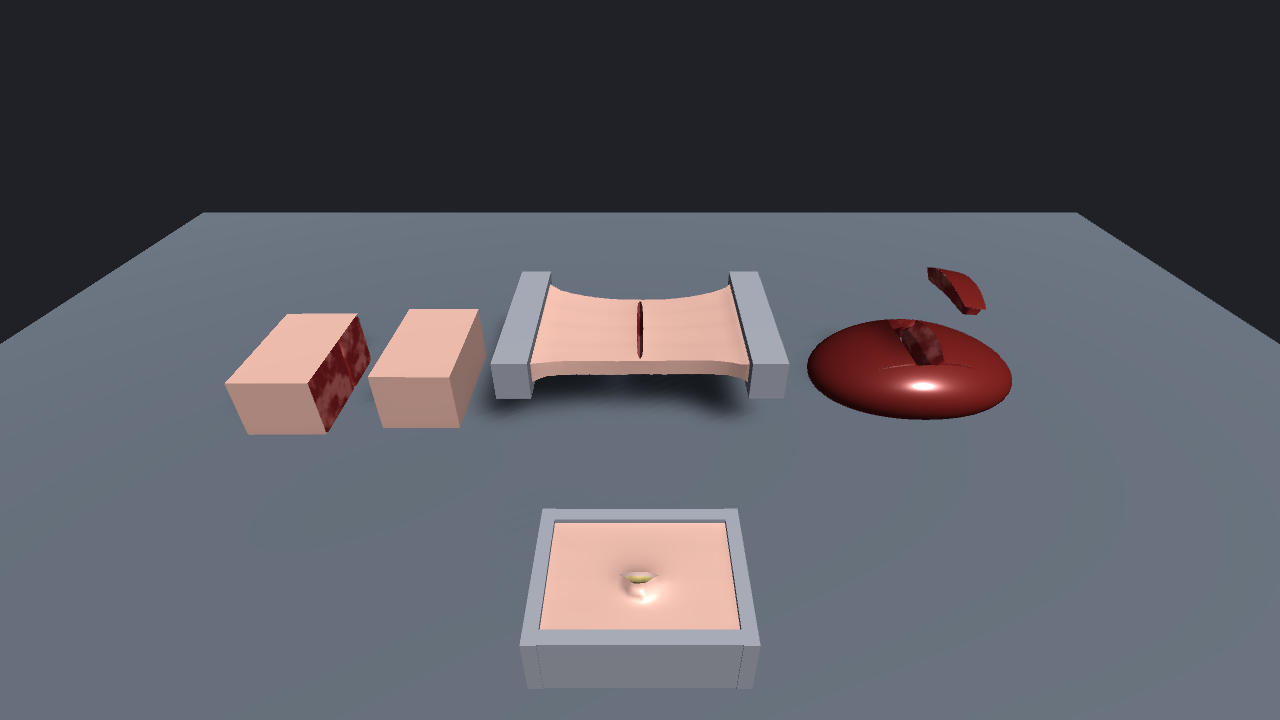
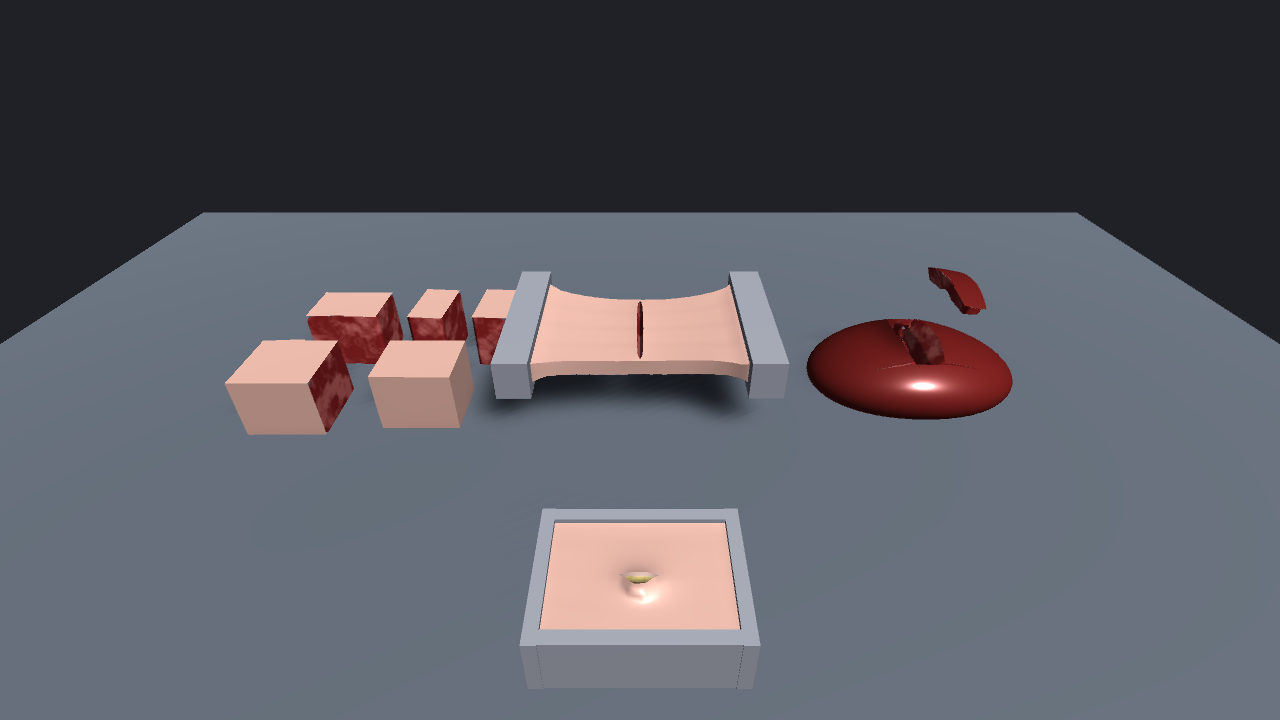
docs: 重新截取 S1–S6、S8–S11，更新 ROADMAP 当前结果（ENG-4 部分完成）
ENG-4：docs/images 中的截图早于 BUG-1/4/6/7/8 的修复，M1、M2 的人工验收
以截图为准（ROADMAP 决策 5），需要先按当前代码重新生成。

- 按 7389533 在 batchmode 中运行 SurgeryDemoCapture、InteractionDemoCapture，
  更新 docs/images 中有变化的截图，新增 S3b_block_pieces_apart
- README：第二个截图表加入 S3b
- ROADMAP：注明截图与“当前结果”列的生成提交；S3 补充拉开后各块分离、
  切面完整；S8 补充两个物体之后都进入休眠
- TODO：ENG-4 改为部分完成（M1、M2 的人工验收未完成）；变更记录补上 0012562

验证：日志中各阶段的块数与 ROADMAP“当前结果”一致（S1 2 块，S2 1 块，
S3 5 块，S5 楔形块 82 个节点被提起，S6 1 块；S10 环下表面 42.8 → 38.4 →
42.8 mm，S11 塑性块中部 30.4 → 25.2 mm）。与此前的截图相比，S1–S6 除背景中
组织块的位置外差别在几千像素以内，S8 中肝叶位置略有变化，S10、S11 逐像素
相同；S1b、S10a、S11b、S11c 文件未变。未运行测试与基准测试（运行时代码未改动）。

Changed region(s): [[0.1875, 0.3972, 0.4062, 0.55], [0.6875, 0.4278, 0.7188, 0.4583]]

diff --git a/docs/TODO.md b/docs/TODO.md
@@ -242,7 +242,7 @@ public sealed class ApxHapticBridge
 | ENG-1 | 以 UPM 包发布 | 插件在 `Assets/AdaptorPhysX`，没有 `package.json`、版本号与 CHANGELOG；示例在 `Assets/Samples`，不是包内的 `Samples~` | 未开始 | 另一个空工程用 git URL（`?path=`）引用包后编译通过，示例可从 Package Manager 导入，包内 EditMode 测试可运行 |
 | ENG-2 | 自动运行测试 | EditMode 与 PlayMode 测试只在本机 batchmode 或编辑器中手动运行（README）；没有 CI | 未开始 | 推送后自动运行 EditMode 与 PlayMode 测试并保存结果文件；运行环境的配置（含 Unity 许可证）写入 README |
 | ENG-3 | 基准测试基线 | 判断改动是否改变仿真结果时比较 16 组 4 个阶段的 `positionsHash`；结果文件在 `Benchmarks/Results/`（不提交），对照值只存在于本机上一次运行的文件中；哈希只在同一机器、同一构建下可比 | 未开始 | 基线文件（例如 `Benchmarks/baseline.json`：每组 4 个阶段的 `positionsHash`、块数、断棱数，以及机器与构建信息）入库；基准测试运行后与基线比较，列出不一致的组 |
-| ENG-4 | 标准场景截图与里程碑验收 | `docs/images` 中 S1–S6 的截图来自 `1ef1a09`（2026-10-26），之后 BUG-1、BUG-4、BUG-6、BUG-7 修改了切割、皮肤渲染与求解器初始状态；S8–S11 来自 `1e35fa0`，早于 BUG-8 的同步子步（`2aec0fe`）。本地 `Captures/`（不提交）中最新的截图（2026-10-27 01:27 与 02:06）同样早于 BUG-6 合入（`20c1e5e`）与 `2aec0fe`。ROADMAP 标准场景表的“当前结果”列未按这些修复重新核对；M1、M2 自 2026-10-20 起为“已完成，待人工验收”，按 ROADMAP 决策 5 以截图为准 | 未开始 | 用当前提交重新截取 S1–S6、S8–S11，更新 `docs/images` 与 ROADMAP“当前结果”列；M1、M2 的人工验收结果记入 ROADMAP |
+| ENG-4 | 标准场景截图与里程碑验收 | 此前 `docs/images` 中 S1–S6 的截图来自 `1ef1a09`（2026-10-26），早于 BUG-1、BUG-4、BUG-6、BUG-7；S8–S11 来自 `1e35fa0`，早于 BUG-8 的同步子步（`2aec0fe`）。2026-10-27 按 `7389533` 在 batchmode 中重新截取 S1–S6、S8–S11 并更新 `docs/images`：S3 原截图中各块仍贴在一起，看不出切口，截图工具在 S3 之后拉开后侧三块，新增 S3b（5 块分离，切面完整）。与此前的截图相比，S1–S6 除背景中组织块的位置外差别在几千像素以内，S8 中肝叶位置略有变化，S10、S11 逐像素相同；ROADMAP“当前结果”各项仍成立（S8 补充两个物体之后都进入休眠）。S3b 中皮肤边缘与切面交界处有 1–2 像素的台阶（DESIGN 第 7 节，每个体素一个拟合平面）。未完成：M1、M2 的人工验收（ROADMAP 决策 5） | 部分完成 | 用当前提交重新截取 S1–S6、S8–S11，更新 `docs/images` 与 ROADMAP“当前结果”列；M1、M2 的人工验收结果记入 ROADMAP |
 
 ## 7. 建议顺序
 
@@ -285,4 +285,5 @@ public sealed class ApxHapticBridge
 | 2026-10-27 | `28b6782` | HAP-4 已完成：每步为接触中的碰撞体发布局部线性力模型，K = −k N（接触法向张量乘沿运动方向的差分刚度）；节点 job 累加接触法向张量（`ApxWrench.ContactNormals`），`SoftBodySimulation` 增加 `SimulatedTime`、`ShapeMeanPosition`。新增 EditMode 测试 2 个；基准测试 16 组 4 个阶段的 `positionsHash` 与修改前一致 |
 | 2026-10-27 | `0ba4a57` | 复核 HAP-4 与上一次 TODO 补充：HAP-4 的验收改为已采用的 K 的求法并写明测试条件，限制补上体素 5 mm 时的误差；BUG-8 修改前后基准测试 16 组 4 个阶段（rest、drop、cut、afterCut）的 `positionsHash` 与 `20c1e5e` 一致（此前只对比了 rest、afterCut） |
 | 2026-10-27 | `d9fa515` | 文件行号改以 `0ba4a57` 为准：HAP-2、HAP-4 之后移动的 MED-4、SUT-1、CFG-7 中的行号；CFG-6 的已有派生量补充 `SimulatedTime` |
-| 2026-10-27 | — | 补充核对中发现但未列出的缺口：新增 BUG-10（开放网格初始化时没有提示）、ECO-9（整体移动与 Transform 变化）、MED-18（切下组织块的管理）与第 6 节发布与工程（ENG-1 至 ENG-4：UPM 包、自动运行测试、基准测试基线、标准场景截图与里程碑验收）；CFG-7 补充钉住区域最多 31 个、超出部分没有提示；建议顺序改为第 7 节 |
+| 2026-10-27 | `0012562` | 补充核对中发现但未列出的缺口：新增 BUG-10（开放网格初始化时没有提示）、ECO-9（整体移动与 Transform 变化）、MED-18（切下组织块的管理）与第 6 节发布与工程（ENG-1 至 ENG-4：UPM 包、自动运行测试、基准测试基线、标准场景截图与里程碑验收）；CFG-7 补充钉住区域最多 31 个、超出部分没有提示；建议顺序改为第 7 节 |
+| 2026-10-27 | — | ENG-4 部分完成：按 `7389533` 在 batchmode 中重新截取 S1–S6、S8–S11，更新 `docs/images`、README 与 ROADMAP“当前结果”列；截图工具新增 S3b（拉开后侧三块）；M1、M2 的人工验收未完成 |

diff --git a/docs/ROADMAP.md b/docs/ROADMAP.md
@@ -15,12 +15,13 @@
 ## 标准场景
 
 `AdaptorPhysX/Capture Standard Scenarios` 按脚本执行以下场景并输出截图（`docs/images/` 为当前结果）。
+S1–S6 与 S8–S11 的截图与“当前结果”列于 2026-10-27 按 `7389533` 在 batchmode 中重新生成。
 
 | 编号 | 场景 | 验收内容 | 当前结果 |
 |---|---|---|---|
 | S1 | 组织块全切 | 切穿后两块分离，可被镊子拉开，切面完整 | 2 块 |
 | S2 | 预应力皮瓣半切 | 切口停在组织内部，切口在张力下张开 | 1 块，切口张开 |
-| S3 | 十字切与再次切割 | 交叉切得到四块；已分离的块可以继续切 | 5 块 |
+| S3 | 十字切与再次切割 | 交叉切得到四块；已分离的块可以继续切 | 5 块；后侧三块拉开后各块分离，切面完整（S3b） |
 | S4 | 镊子牵拉切口边缘 | 抓取不跨越切口，牵拉时组织形变连续 | 切口张开，露出切面 |
 | S5 | 肝叶楔形切除 | V 形两刀加两端横切，楔形块可被取出 | 楔形块分离并被提起 |
 | S6 | 实体组织上的小切口 | 带皮肤层的组织块上切一道短而浅的切口：皮肤张力使切口张开，切口下方仍为实体；牵开后露出真皮、脂肪分层 | 1 块，切口张开，底部闭合 |
@@ -30,7 +31,7 @@ S7 留给缝合（TODO SUT-9）。以下交互场景在 `Assets/Samples/Interact
 
 | 编号 | 场景 | 验收内容 | 当前结果 |
 |---|---|---|---|
-| S8 | 软体之间的接触 | 椭球形肝叶落在组织块上，两者接触后静止，不相互穿透 | 肝叶停在组织块上 |
+| S8 | 软体之间的接触 | 椭球形肝叶落在组织块上，两者接触后静止，不相互穿透 | 肝叶停在组织块上，之后两者都进入休眠 |
 | S9 | 刚体与组织双向耦合 | 0.1 kg 钢球（Rigidbody）落在两端夹住的组织上，组织下垂并托住钢球 | 钢球停在组织上，组织下垂 |
 | S10 | 距离场器械 | 环形器械（MeshCollider 与距离场资产）压入组织块，压痕为环形；抬起后组织恢复 | 环下表面下降 4.4 mm，抬起后恢复 |
 | S11 | 塑性与粘附 | 塑性材料被球压一次后保留压痕；带粘附的平板抬起时组织表面随之上移，超过粘附距离后脱离 | 压痕保留（中部 30.4 → 25.2 mm）；组织随平板上移 |
